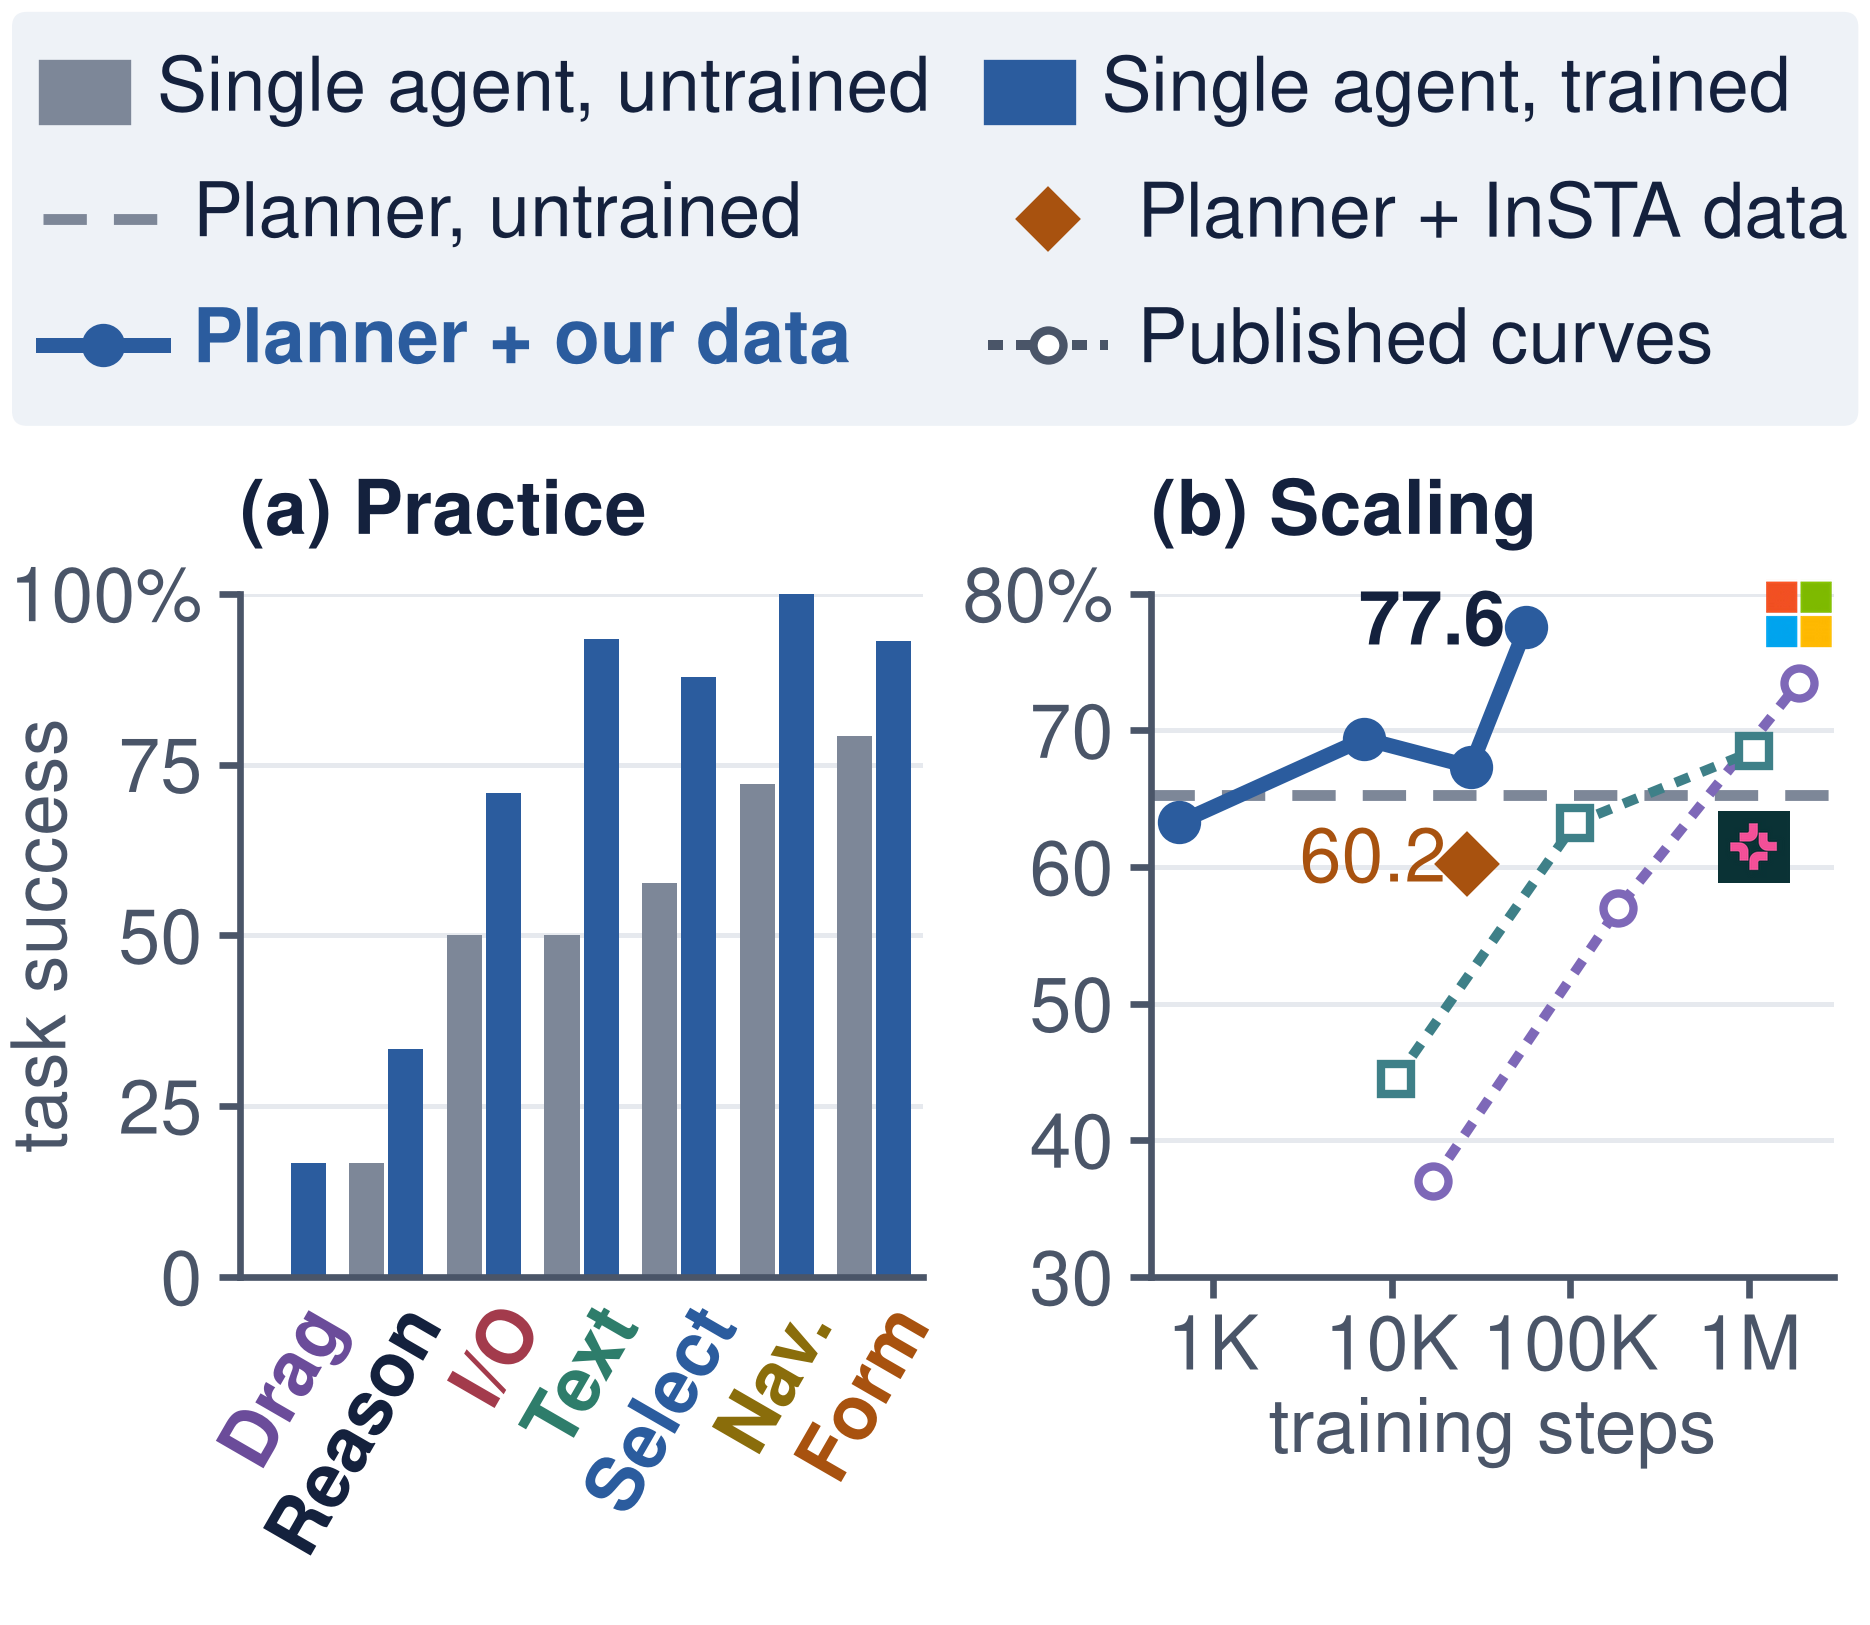
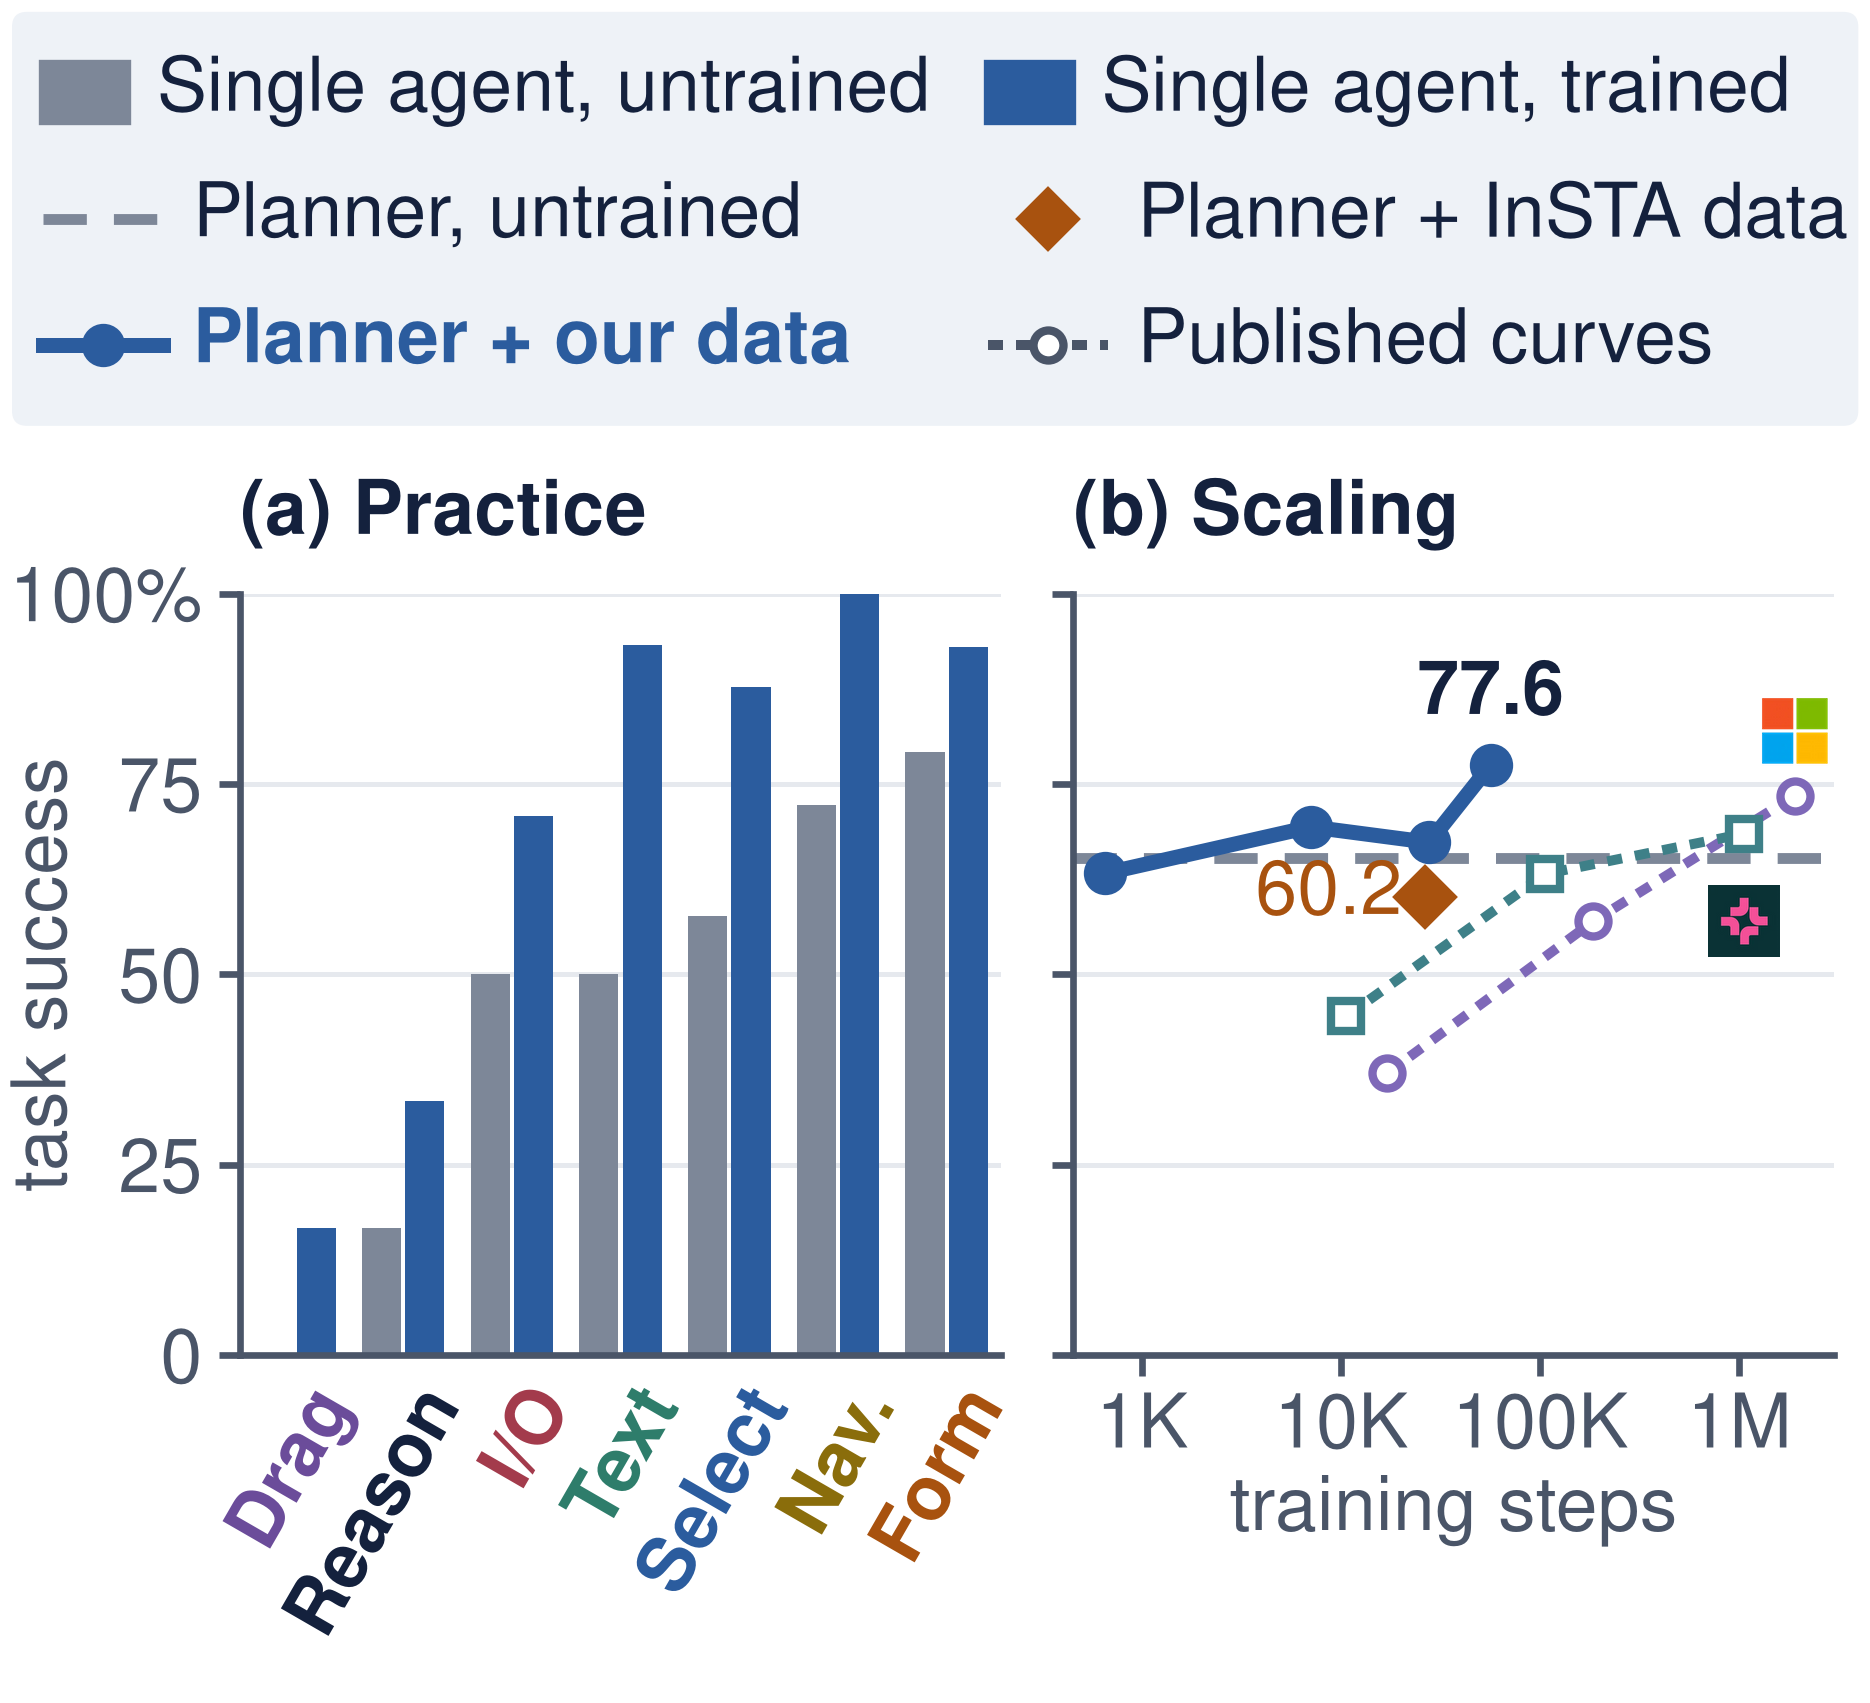
Fig. 7: the scaling panel shares the practice panel's 0-100% axis
The scaling panel no longer labels its own ticks: both panels use one 0-100%
axis, labelled on the practice panel, so the gap between them shrinks and both
squares grow.

Claude-Session: https://claude.ai/code/session_01RnHqwfNz7WH8EmXGFqb2JM

diff --git a/docs/figures/rq3/make_results_row.py b/docs/figures/rq3/make_results_row.py
@@ -125,13 +125,15 @@ def main():
 
     practice(axes[0], rq2)
     style_axes(axes[0])
-    axes[0].set_ylim(0, 100); axes[0].set_yticks([0, 25, 50, 75, 100]); axes[0].set_xticks([])
-    axes[0].set_yticklabels(["0", "25", "50", "75", "100%"])
+    axes[0].set_xticks([])
     p = {k: v for k, v in sc["panels"][0].items() if k != "title"}
     p.update(cfg.get("scaling_panel") or {})
     p["references"] = [dict(r, **(cfg.get("reference_labels") or {}).get(r["label"], {}))   # label positions for
                        for r in p.get("references", [])]                                    # the narrow panel
     scaling_panel(axes[1], p, sc)
+    for ax in axes:                                      # one 0-100% axis, labelled on (a) only (user, 2026-10-06)
+        ax.set_ylim(0, 100); ax.set_yticks([0, 25, 50, 75, 100])
+        ax.set_yticklabels(["0", "25", "50", "75", "100%"] if ax is axes[0] else [])
 
     for x, t in zip(xs, cfg["titles"]):
         A.text(x, top - 0.1, t, fontsize=FS["label"], weight="bold", color=INK, va="baseline")
